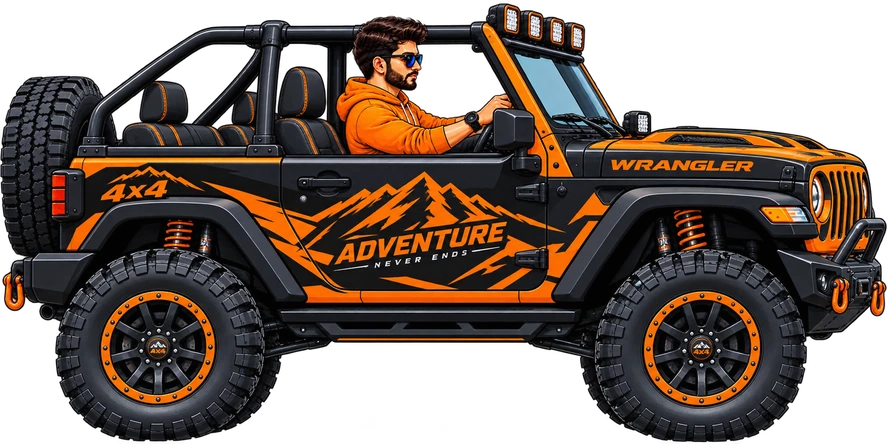
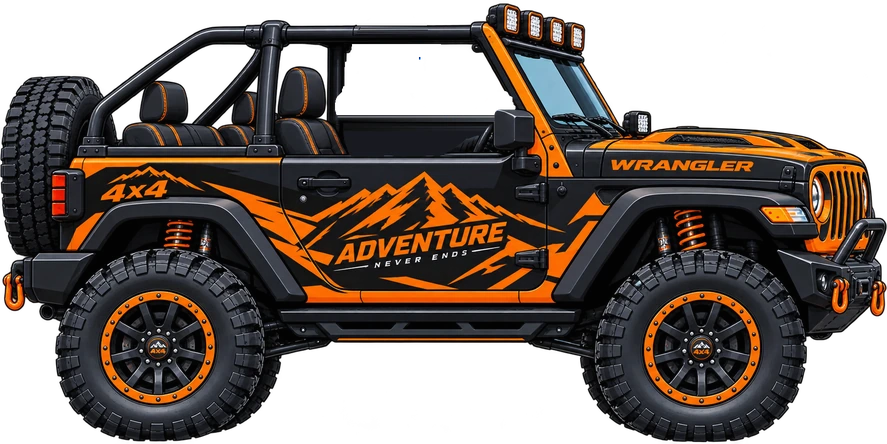
Hill Climb: animated driver (head on spring neck, torso leans with accel/brake, bumps), driver separated from car sprite

Changed region(s): [[0.3653, 0.0293, 0.5784, 0.3514]]

diff --git a/public/games/hillclimb-racing/real.js b/public/games/hillclimb-racing/real.js
@@ -5,7 +5,7 @@
    shadows/labels are removed, and the car rims are separate spinning discs (brake calipers removed so they never rotate).
    Per-vehicle numbers: s = game units per sprite px, mx/Y0 = sprite px that map to the vehicle origin, wr/wf = rear/front wheel [x,y,r] in sprite px,
    head = driver head centre in game units, ext = [rear,front] extent in game units. */
-const REAL_DATA=[{"vi":0,"cls":"car","n":"Adventure Wrangler","file":"real/j0.webp","W":887,"H":444,"s":0.207,"mx":438.8,"Y0":240.9,"R":21.5,"wr":[168.5,344.8,101.0],"wf":[709.0,344.8,100.5],"head":[-10.1,-36.9],"ext":[-90.8,92.8],"cost":0,"pw":1.0,"gr":1.0,"fu":1.0,"st":3,"vm":1.0,"disc":["real/j0_r.png","real/j0_f.png"],"dr":[101.0,100.5]},{"vi":1,"cls":"car","n":"Red Rubicon","file":"real/j1.webp","W":887,"H":444,"s":0.23699,"mx":438.8,"Y0":266.8,"R":21.5,"wr":[184.0,357.5,87.0],"wf":[693.5,357.5,89.0],"head":[-8.0,-43.1],"ext":[-104.0,106.2],"cost":3000,"pw":1.12,"gr":1.05,"fu":1.05,"st":3,"vm":1.04,"disc":["real/j1_r.png","real/j1_f.png"],"dr":[87.0,89.0]},{"vi":2,"cls":"car","n":"Blue Rubicon","file":"real/j2.webp","W":887,"H":444,"s":0.22245,"mx":443.2,"Y0":255.1,"R":21.5,"wr":[181.0,351.8,96.0],"wf":[705.5,351.8,91.5],"head":[-9.6,-37.8],"ext":[-98.6,98.7],"cost":8000,"pw":1.24,"gr":1.1,"fu":1.1,"st":4,"vm":1.08,"disc":["real/j2_r.png","real/j2_f.png"],"dr":[96.0,91.5]},{"vi":3,"cls":"car","n":"Yellow Raptor","file":"real/j3.webp","W":880,"H":444,"s":0.22855,"mx":441.5,"Y0":260.2,"R":21.5,"wr":[182.5,354.2,90.5],"wf":[700.5,354.2,92.0],"head":[-10.5,-40.6],"ext":[-100.9,100.2],"cost":15000,"pw":1.36,"gr":1.16,"fu":1.15,"st":4,"vm":1.12,"disc":["real/j3_r.png","real/j3_f.png"],"dr":[90.5,92.0]},{"vi":7,"cls":"bike","n":"Crimson V4","file":"real/b7.webp","W":879,"H":603,"s":0.225,"mx":422.1,"Y0":350.8,"R":27,"wr":[111.4,470.8,126.2],"wf":[732.8,470.8,113.8],"head":[14.0,-65.4],"ext":[-95.0,102.6],"cost":3500,"pw":1.25,"gr":1.1,"fu":1.0,"st":4,"vm":1.1},{"vi":8,"cls":"bike","n":"Venom R","file":"real/b8.webp","W":907,"H":607,"s":0.225,"mx":433.3,"Y0":356.1,"R":27,"wr":[113.6,476.1,128.6],"wf":[753.0,476.1,111.4],"head":[12.4,-66.6],"ext":[-97.5,106.3],"cost":8000,"pw":1.45,"gr":1.18,"fu":1.1,"st":4,"vm":1.18},{"vi":9,"cls":"bike","n":"Royal R1","file":"real/b9.webp","W":878,"H":610,"s":0.225,"mx":426.8,"Y0":359.1,"R":27,"wr":[113.5,479.1,125.1],"wf":[740.0,479.1,114.9],"head":[10.6,-67.3],"ext":[-96.0,101.3],"cost":14000,"pw":1.65,"gr":1.26,"fu":1.2,"st":5,"vm":1.25},{"vi":11,"cls":"bike","n":"Jade ZX-6R","file":"real/b11.webp","W":841,"H":597,"s":0.225,"mx":422.2,"Y0":354.8,"R":27,"wr":[123.3,474.8,120.3],"wf":[721.2,474.8,119.7],"head":[-0.9,-66.3],"ext":[-95.0,94.0],"cost":20000,"pw":1.85,"gr":1.32,"fu":1.2,"st":5,"vm":1.3}];
+const REAL_DATA=[{"vi":0,"cls":"car","n":"Adventure Wrangler","file":"real/j0.webp","W":887,"H":444,"s":0.207,"mx":438.8,"Y0":240.9,"R":21.5,"wr":[168.5,344.8,101.0],"wf":[709.0,344.8,100.5],"head":[-10.1,-36.9],"ext":[-90.8,92.8],"cost":0,"pw":1.0,"gr":1.0,"fu":1.0,"st":3,"vm":1.0,"dh":[338.0,13.5,172,82],"dt":[334.0,85.0,182,72],"hp":[379.1,89.0],"tp":[407.1,155.5],"disc":["real/j0_r.png","real/j0_f.png"],"dr":[101.0,100.5]},{"vi":1,"cls":"car","n":"Red Rubicon","file":"real/j1.webp","W":887,"H":444,"s":0.23699,"mx":438.8,"Y0":266.8,"R":21.5,"wr":[184.0,357.5,87.0],"wf":[693.5,357.5,89.0],"head":[-8.0,-43.1],"ext":[-104.0,106.2],"cost":3000,"pw":1.12,"gr":1.05,"fu":1.05,"st":3,"vm":1.04,"dh":[329.0,9.0,118,87],"dt":[329.0,85.0,147,72],"hp":[371.3,89.0],"tp":[396.1,155.5],"disc":["real/j1_r.png","real/j1_f.png"],"dr":[87.0,89.0]},{"vi":2,"cls":"car","n":"Blue Rubicon","file":"real/j2.webp","W":887,"H":444,"s":0.22245,"mx":443.2,"Y0":255.1,"R":21.5,"wr":[181.0,351.8,96.0],"wf":[705.5,351.8,91.5],"head":[-9.6,-37.8],"ext":[-98.6,98.7],"cost":8000,"pw":1.24,"gr":1.1,"fu":1.1,"st":4,"vm":1.08,"dh":[346.5,9.0,166,87],"dt":[338.5,85.0,178,69],"hp":[385.5,89.0],"tp":[414.1,152.5],"disc":["real/j2_r.png","real/j2_f.png"],"dr":[96.0,91.5]},{"vi":3,"cls":"car","n":"Yellow Raptor","file":"real/j3.webp","W":880,"H":444,"s":0.22855,"mx":441.5,"Y0":260.2,"R":21.5,"wr":[182.5,354.2,90.5],"wf":[700.5,354.2,92.0],"head":[-10.5,-40.6],"ext":[-100.9,100.2],"cost":15000,"pw":1.36,"gr":1.16,"fu":1.15,"st":4,"vm":1.12,"dh":[328.5,9.0,176,87],"dt":[322.0,85.0,188,72],"hp":[376.4,89.0],"tp":[402.5,155.5],"disc":["real/j3_r.png","real/j3_f.png"],"dr":[90.5,92.0]},{"vi":7,"cls":"bike","n":"Crimson V4","file":"real/b7.webp","W":879,"H":603,"s":0.225,"mx":422.1,"Y0":350.8,"R":27,"wr":[111.4,470.8,126.2],"wf":[732.8,470.8,113.8],"head":[14.0,-65.4],"ext":[-95.0,102.6],"cost":3500,"pw":1.25,"gr":1.1,"fu":1.0,"st":4,"vm":1.1},{"vi":8,"cls":"bike","n":"Venom R","file":"real/b8.webp","W":907,"H":607,"s":0.225,"mx":433.3,"Y0":356.1,"R":27,"wr":[113.6,476.1,128.6],"wf":[753.0,476.1,111.4],"head":[12.4,-66.6],"ext":[-97.5,106.3],"cost":8000,"pw":1.45,"gr":1.18,"fu":1.1,"st":4,"vm":1.18},{"vi":9,"cls":"bike","n":"Royal R1","file":"real/b9.webp","W":878,"H":610,"s":0.225,"mx":426.8,"Y0":359.1,"R":27,"wr":[113.5,479.1,125.1],"wf":[740.0,479.1,114.9],"head":[10.6,-67.3],"ext":[-96.0,101.3],"cost":14000,"pw":1.65,"gr":1.26,"fu":1.2,"st":5,"vm":1.25},{"vi":11,"cls":"bike","n":"Jade ZX-6R","file":"real/b11.webp","W":841,"H":597,"s":0.225,"mx":422.2,"Y0":354.8,"R":27,"wr":[123.3,474.8,120.3],"wf":[721.2,474.8,119.7],"head":[-0.9,-66.3],"ext":[-95.0,94.0],"cost":20000,"pw":1.85,"gr":1.32,"fu":1.2,"st":5,"vm":1.3}];
 const OLD_COST=VEH.map(v=>v.cost||0);   /* old roster prices, used once to refund saved purchases */
 const REAL_BY={};
 (function(){
@@ -21,9 +21,13 @@ const REAL_BY={};
   else{v.wk='bike';delete v.rd}
   REAL_BY[d.vi]=d;
   const im=new Image();im.onload=()=>{d.body=im};im.src=d.file;
+  if(d.dt){const a=new Image();a.onload=()=>{d.timg=a};a.src='real/j'+d.vi+'_t.png';const b=new Image();b.onload=()=>{d.himg=b};b.src='real/j'+d.vi+'_h.png'}
   if(d.disc){d.wc=[null,null];d.disc.forEach((f,k)=>{const q=new Image();q.onload=()=>{d.wc[k]=q};q.src=f})}
  });
 })();
 drawVeh=function(cx,vi,o){const d=REAL_BY[vi];if(!d||!d.body)return;
  const s=d.s;cx.drawImage(d.body,-d.mx*s,-d.Y0*s,d.W*s,d.H*s);
- if(d.wc){[d.wr,d.wf].forEach((w,i)=>{const q=d.wc[i];if(!q)return;const dia=d.dr[i]*2*s+4*s;cx.save();cx.translate((w[0]-d.mx)*s,(w[1]-d.Y0)*s+(o.ws?o.ws[i]:0));cx.rotate(o.sp?o.sp[i]:0);cx.drawImage(q,-dia/2,-dia/2,dia,dia);cx.restore()})}};
+ if(d.wc){[d.wr,d.wf].forEach((w,i)=>{const q=d.wc[i];if(!q)return;const dia=d.dr[i]*2*s+4*s;cx.save();cx.translate((w[0]-d.mx)*s,(w[1]-d.Y0)*s+(o.ws?o.ws[i]:0));cx.rotate(o.sp?o.sp[i]:0);cx.drawImage(q,-dia/2,-dia/2,dia,dia);cx.restore()})}
+ if(d.timg&&d.himg){const dx=o.dx!=null?o.dx:0,dy=o.dy!=null?o.dy:Math.sin((o.t||0)*3.1)*.5,ha=o.ha||0,T=d.dt,Hd=d.dh,lean=dx*.014+dy*.004;
+  cx.save();cx.translate((d.tp[0]-d.mx)*s+dx*.4,(d.tp[1]-d.Y0)*s+dy*.35);cx.rotate(lean);cx.drawImage(d.timg,(T[0]-d.tp[0])*s,(T[1]-d.tp[1])*s,T[2]*s,T[3]*s);
+  cx.translate((d.hp[0]-d.tp[0])*s+dx*.5,(d.hp[1]-d.tp[1])*s+dy*.6);cx.rotate(ha*.5+dx*.01);cx.drawImage(d.himg,(Hd[0]-d.hp[0])*s,(Hd[1]-d.hp[1])*s,Hd[2]*s,Hd[3]*s);cx.restore()}};
